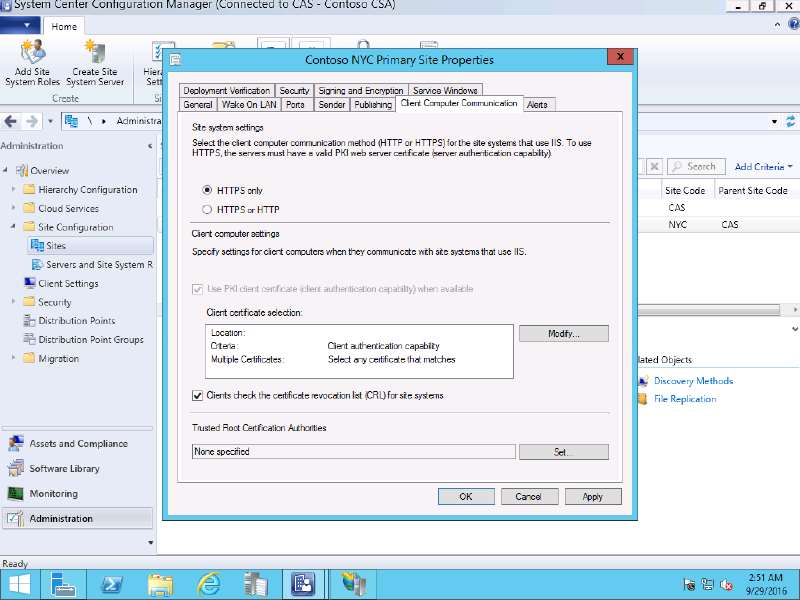
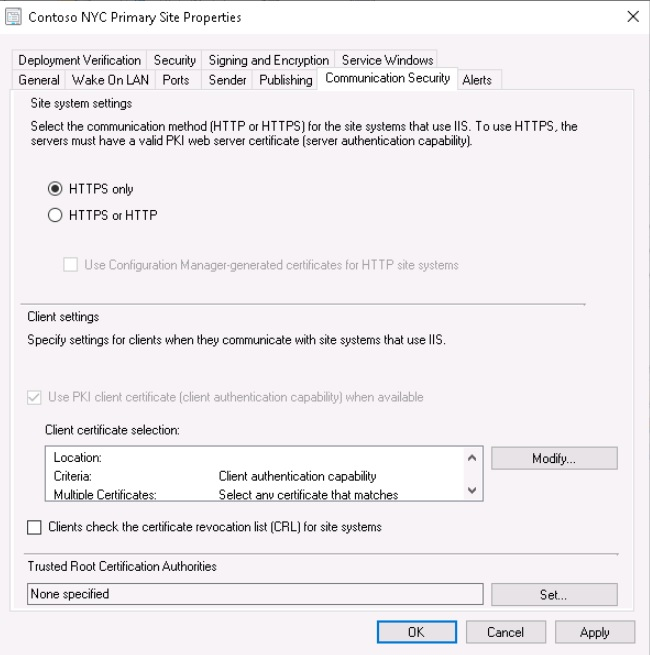
Remove DP client certificate from the lab

diff --git a/instructions.md b/instructions.md
@@ -512,28 +512,14 @@ In this exercise you will:
 
 1. []Open **Configuration Manager Console**.
 
-	!IMAGE[Screenshot](screens/5eeb97c0.jpg)
 
 
 1. []Click **Administration** workspace, expand **Site Configuration**.
 1. []Click **Sites**, select "**NYC - Contoso NYC Primary Site**" in result pane. Click **Properties** in the ribbon.
-1. []Click **Client Computer Communication** tab, select **HTTPS only**. Click **OK**.
+1. []Click **Communication Security** tab, select **HTTPS only**, and uncheck **Clients check the certificate revocation list (CRL) for site systems**. Click **OK**.
 
 	!IMAGE[Screenshot](screens/a4e8cd66.jpg)
 
-1. []Click **Servers and Site System Roles**, select **\\\\NYCCFG.CONTOSO.COM**
-1. []Under **Site System Roles**, select **Distribution point**. Click **Properties** in the ribbon.
-1. []Select **Import certificate**. Type the following information, then click **OK**.
-	
-	  - **Certificate**: *\\\\nyccfg\\e$\\nyccfg\_dpcert.pfx*
-	  - **Password**: +++*Pa$$w0rd*+++
-	
-1. []Click **Yes** if there is a warning "**The certificate you specified is already in use**".
-	
-	
-	
-
-	!IMAGE[Screenshot](screens/35585bc9.jpg)
 
 
 	> Switch to @lab.VirtualMachine(NYCCFG).SelectLink
@@ -593,6 +579,12 @@ In this exercise you will:
 1. []Verify **Client certificate** property value is **PKI**.
 
 	!IMAGE[Screenshot](screens/eb2323d4.jpg)
+
+1. []In **Actions** tab, triger **Machine Policy Retrieval & Evaluation Cycle**. 
+
+1. []Open a Powershell window, type command +++*netstat -an | findstr "192.168.58.29"*+++. Verify 443 port is used by client to communicate with server NYCCFG.contoso.com. 
+
+	!IMAGE[Screenshot](screens/nyccl1https.jpg)
 
  
 	> Switch to @lab.VirtualMachine(NYCCAS).SelectLink
